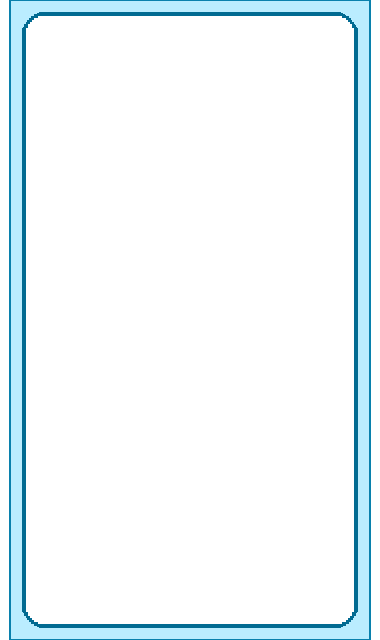
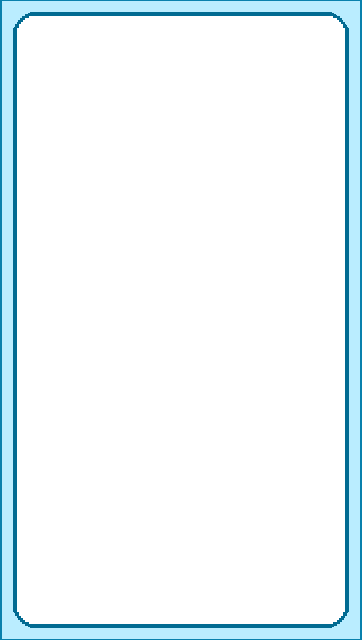
change sprite ball, adjusted the sprite sizes

Changed region(s): [[0.8812, 0.0, 1.0, 1.0], [0.0, 0.0, 0.0912, 1.0]]

diff --git a/js/script.js b/js/script.js
@@ -18,9 +18,9 @@ const GAME_SIZE_W = 360;
 const GAME_SIZE_H = 640;
 
 
-const PLATFORM_SIZE_W = 42;
-const PLATFORM_SIZE_H = 14;
-const BALL_SIZE = 16;
+const PLATFORM_SIZE_W = 84;
+const PLATFORM_SIZE_H = 28;
+const BALL_SIZE = 32;
 const TILES_SIZE_W = 32;
 const TILES_SIZE_H = 16;
 
@@ -36,12 +36,12 @@ const PLATFORM_TOP_Y = GAME_SIZE_H - 20 -PLATFORM_SIZE_H;
 
 const BALL_SPEED = 3;
 const PLATFORM_SPEED = 6;
-let platform_X = 116;
-let ballX = 116;
+let platform_X = (360-PLATFORM_SIZE_W)/2;
+let ballX = 360/2 - BALL_SIZE/2;
 let ballY = 500;
 
 const assets =await PIXI.Assets.load([
-    'assets/ball.png',
+    'assets/ball_2.png',
     'assets/platform.png',
     'assets/tile_1.png',
     'assets/tile_2.png',
@@ -54,16 +54,16 @@ const assets =await PIXI.Assets.load([
 ]);
 
 const field = new PIXI.Container();
-field.scale.set(1.5);
+field.scale.set(1.0);
 field.x =0;
 field.y =0;
 app.stage.addChild(field);
 
 const bg = new PIXI.Sprite(assets['assets/game_background.png']);
-bg.width = GAME_SIZE_W;
-bg.height = GAME_SIZE_H;
-bg.x =0;
-bg.y =0;
+bg.width = 328;
+bg.height = 608;
+bg.x =(362-328)/2;
+bg.y =(640-608)/2;
 field.addChild(bg);
 
 const platform =  new PIXI.Sprite( assets['assets/platform.png']);
@@ -73,7 +73,7 @@ platform.x = platform_X;
 platform.y = PLATFORM_TOP_Y;
 field.addChild(platform);
 
-const ball = new PIXI.Sprite(assets['assets/ball.png']);
+const ball = new PIXI.Sprite(assets['assets/ball_2.png']);
 ball.width = BALL_SIZE;
 ball.height = BALL_SIZE;
 ball.x = ballX;
@@ -81,17 +81,24 @@ ball.y =ballY;
 field.addChild(ball);
 
 const panelStart = new PIXI.Sprite(assets['assets/panel_start.png']);
-panelStart.x = GAME_SIZE_W/2;
-panelStart.y = GAME_SIZE_H/2;
+panelStart.x = (362 - 160 )/2;
+panelStart.y = (640 - 60)/2;
 panelStart.visible = true;
 field.addChild(panelStart);
 
 const panelLost = new PIXI.Sprite(assets['assets/panel_lost.png']);
-panelLost.x = GAME_SIZE_W/2;
-panelLost.y = GAME_SIZE_H/2;
+panelLost.x =  (362 - 160 )/2;
+panelLost.y = (640 - 60)/2;
 panelLost.visible = false;
 field.addChild(panelLost);
 
+
+const border = new PIXI.Sprite(assets['assets/border_game.png']);
+border.width = 362;
+border.height = 640;
+border.x =0;
+border.y =0;
+app.stage.addChild(border);
 
 
 

diff --git a/css/style.css b/css/style.css
@@ -6,7 +6,7 @@
 }
 
 body{
-    background-color:rgb(16, 107, 134) ;
+    background-color:rgb(15, 143, 182) ;
     min-height: 100vh;
     display: flex;
     align-items: center;
@@ -22,6 +22,7 @@ body{
     width: auto; 
 
     image-rendering: pixelated;
+    image-rendering: crisp-edges;
  
 }
 #buttons {
